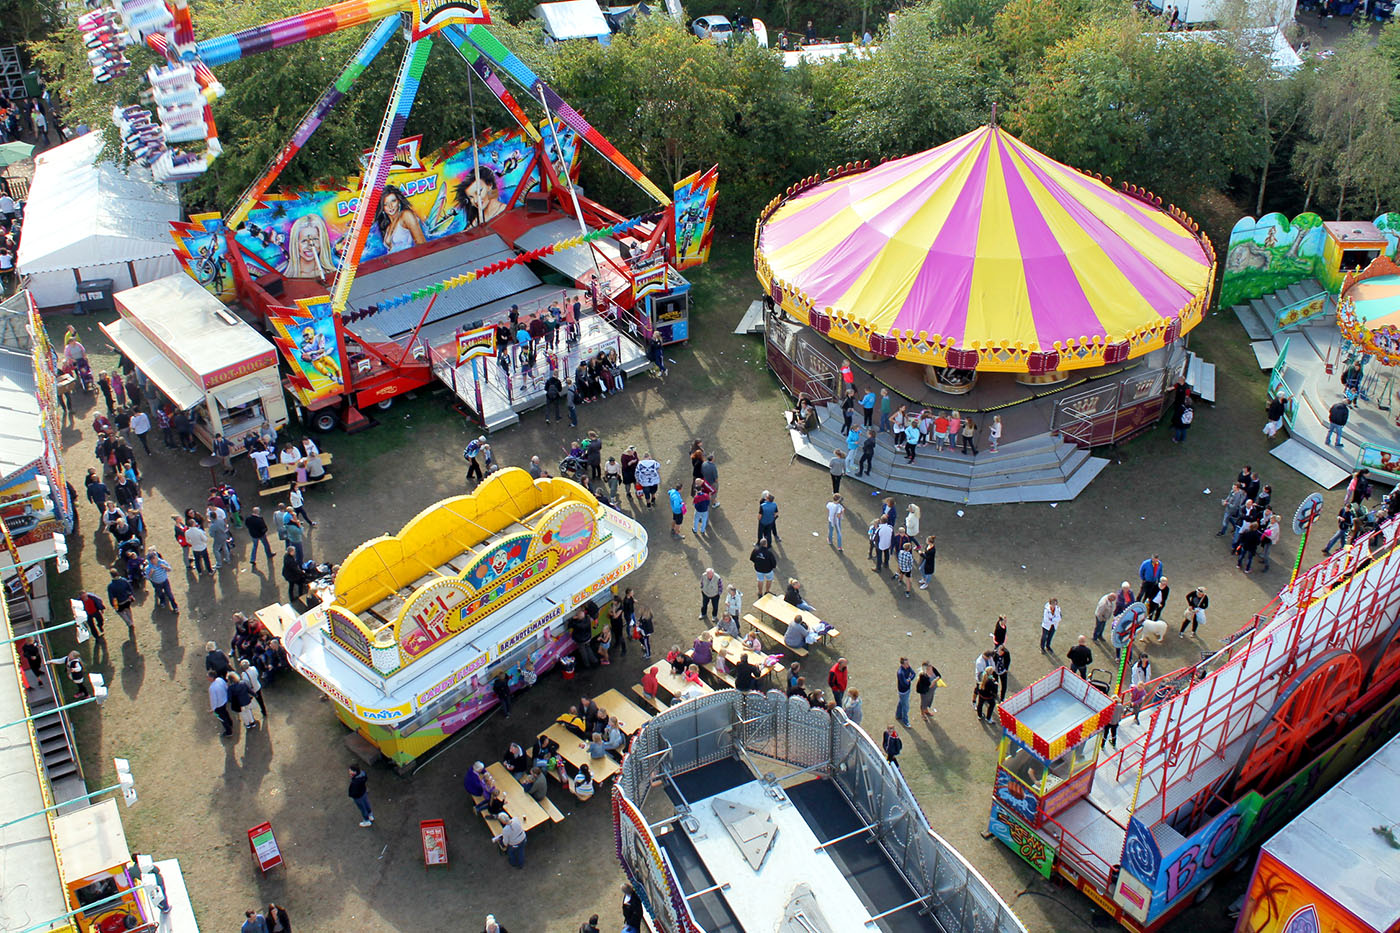
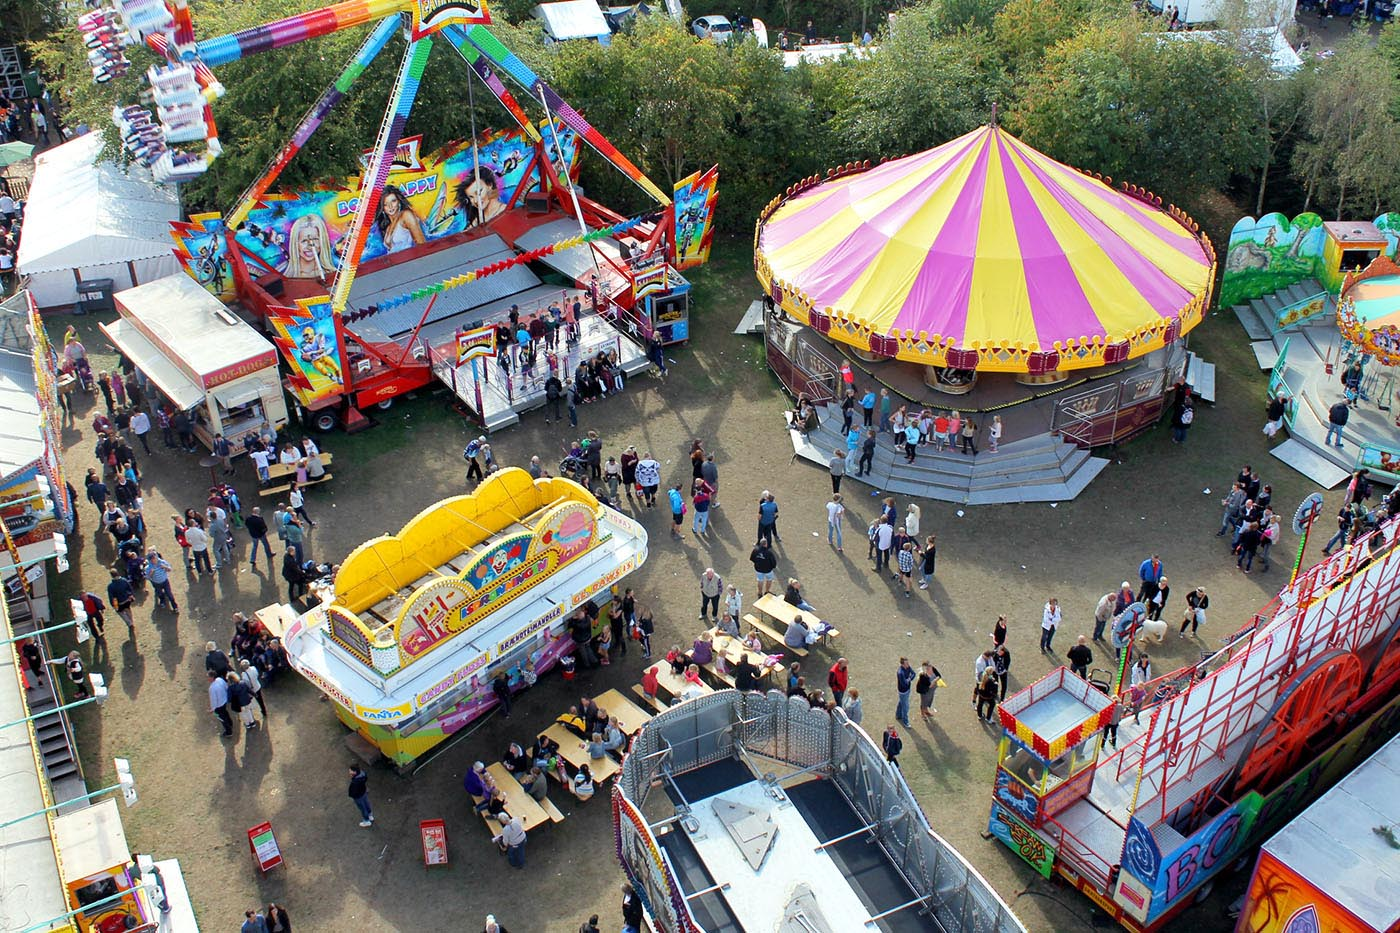
Optimering af billedstørrelser + oprydning

diff --git a/events.html b/events.html
@@ -45,7 +45,7 @@
             <button id="kurvBtn"><a class="" id="kurv" href="#">
                 <li>
                     <div id="varer-i-kurv-container"><p id="varer-i-kurv">0</p></div>
-                    <img src="images/kurv.png" alt="kurv"></li>
+                    <img src="img/kurv.png" alt="kurv"></li>
             </a></button>
         </ul>
         <ul id="login-menu">
@@ -75,8 +75,10 @@
 <main>
 
     <div class="kommendeevents">
-        <h1>Kommende events</h1>
+        <h1>Kommende events</h1><br/>
     </div>
+    <p style="font-size:.9em; text-align: center; margin-top:-10px;"><em>Køb og deltagelse er kun muligt, hvis du er medlem af Langeskov borgerforening.</em></p>
+
 
     <section class="three-col-container" style="margin-bottom:200px;">
         <!-- ** EVENT NUMMER 1 ** -->

diff --git a/style.css b/style.css
@@ -417,7 +417,7 @@ section.three-col-container .three-col .col-title-text {
 
 /* Forside: Events-card */
 #fp-col-1 #fp-event-img {
-    background-image: url(images/1.jpg);
+    background-image: url(img/4.jpg);
 }
 
 #fp-col-1 {
@@ -428,7 +428,7 @@ section.three-col-container .three-col .col-title-text {
 }
 
 #fp-col-2 #fp-kraemmer-img {
-    background-image: url(images/2.jpg);
+    background-image: url(img/1.jpg);
 }
 
 #fp-col-2 {
@@ -439,7 +439,7 @@ section.three-col-container .three-col .col-title-text {
 }
 
 #fp-col-3 #fp-kontakt-img {
-    background-image: url(images/3.jpg);
+    background-image: url(img/5.jpg);
 }
 
 #fp-col-3 {

diff --git a/index.html b/index.html
@@ -46,7 +46,7 @@
             <a class="" id="kurv" href="#">
                 <li>
                     <div id="varer-i-kurv-container"><p id="varer-i-kurv">0</p></div>
-                    <img src="images/kurv.png" alt="kurv"></li>
+                    <img src="img/kurv.png" alt="kurv"></li>
             </a>
         </ul>
         <ul id="login-menu">

diff --git a/kraemmer.html b/kraemmer.html
@@ -46,7 +46,7 @@
             <a class="" id="kurv" href="#">
                 <li>
                     <div id="varer-i-kurv-container"><p id="varer-i-kurv">0</p></div>
-                    <img src="images/kurv.png" alt="kurv"></li>
+                    <img src="img/kurv.png" alt="kurv"></li>
             </a>
         </ul>
         <ul id="login-menu">
